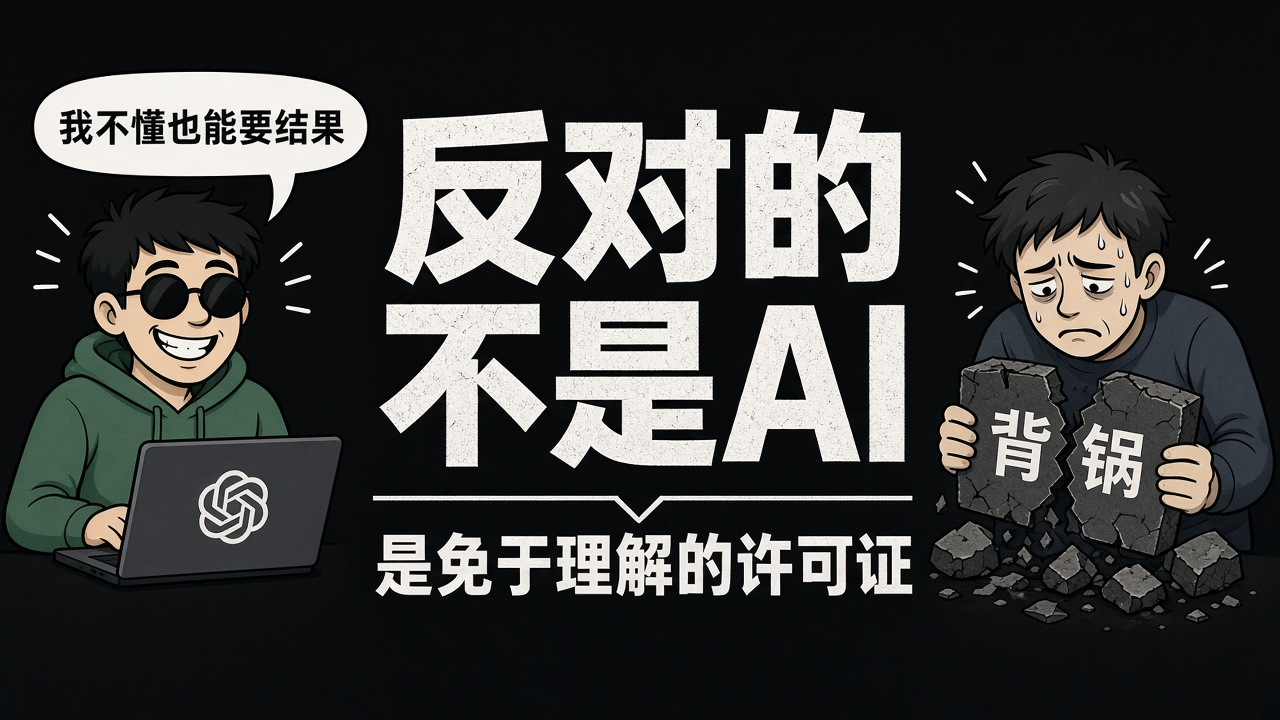
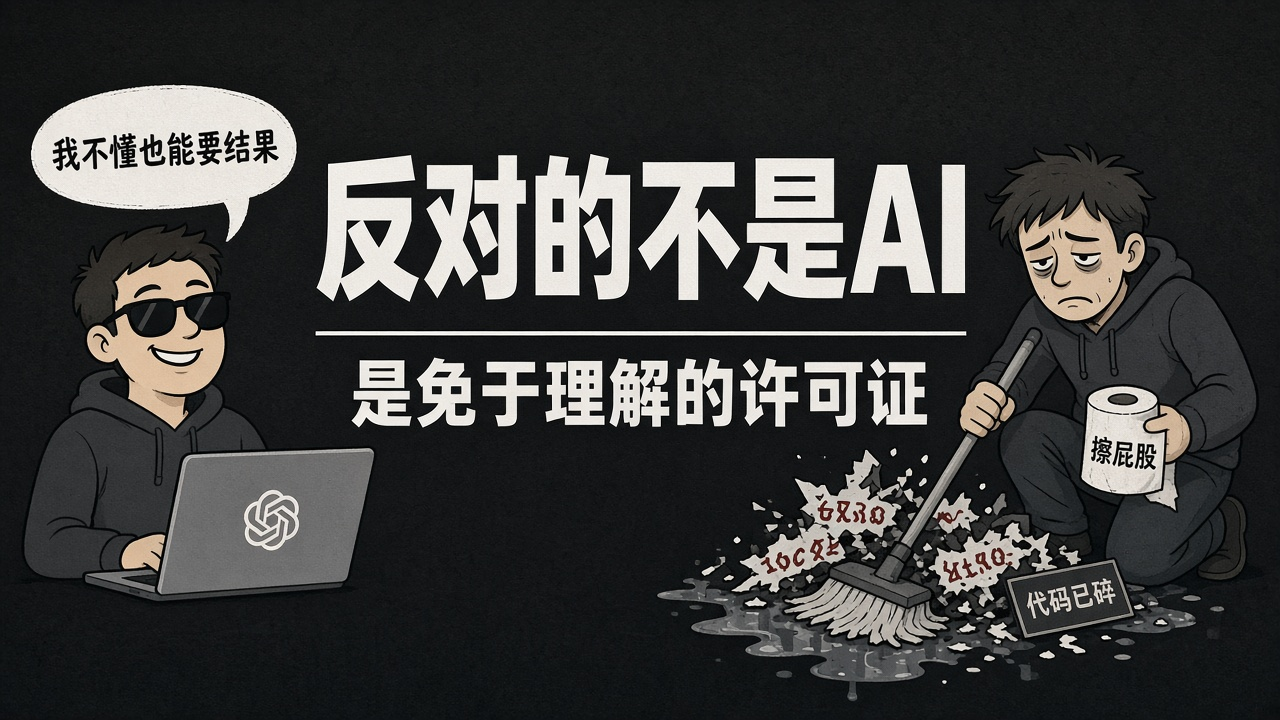
Revise gate satire image to 擦屁股 tone
Overwrite gate-ai-satire-simple.jpg with the updated illustration
and align the image alt text.

diff --git a/src/gate.js b/src/gate.js
@@ -146,7 +146,7 @@ export function renderGate(root, { onSuccess }) {
             <img
               class="gate-satire-image"
               src="${import.meta.env.BASE_URL}notes-assets/gate/gate-ai-satire-simple.jpg"
-              alt="讽刺插画：外行用 AI 要结果，开发者背锅"
+              alt="讽刺插画：外行用 AI 要结果，开发者擦屁股"
               width="1280"
               height="720"
               decoding="async"
